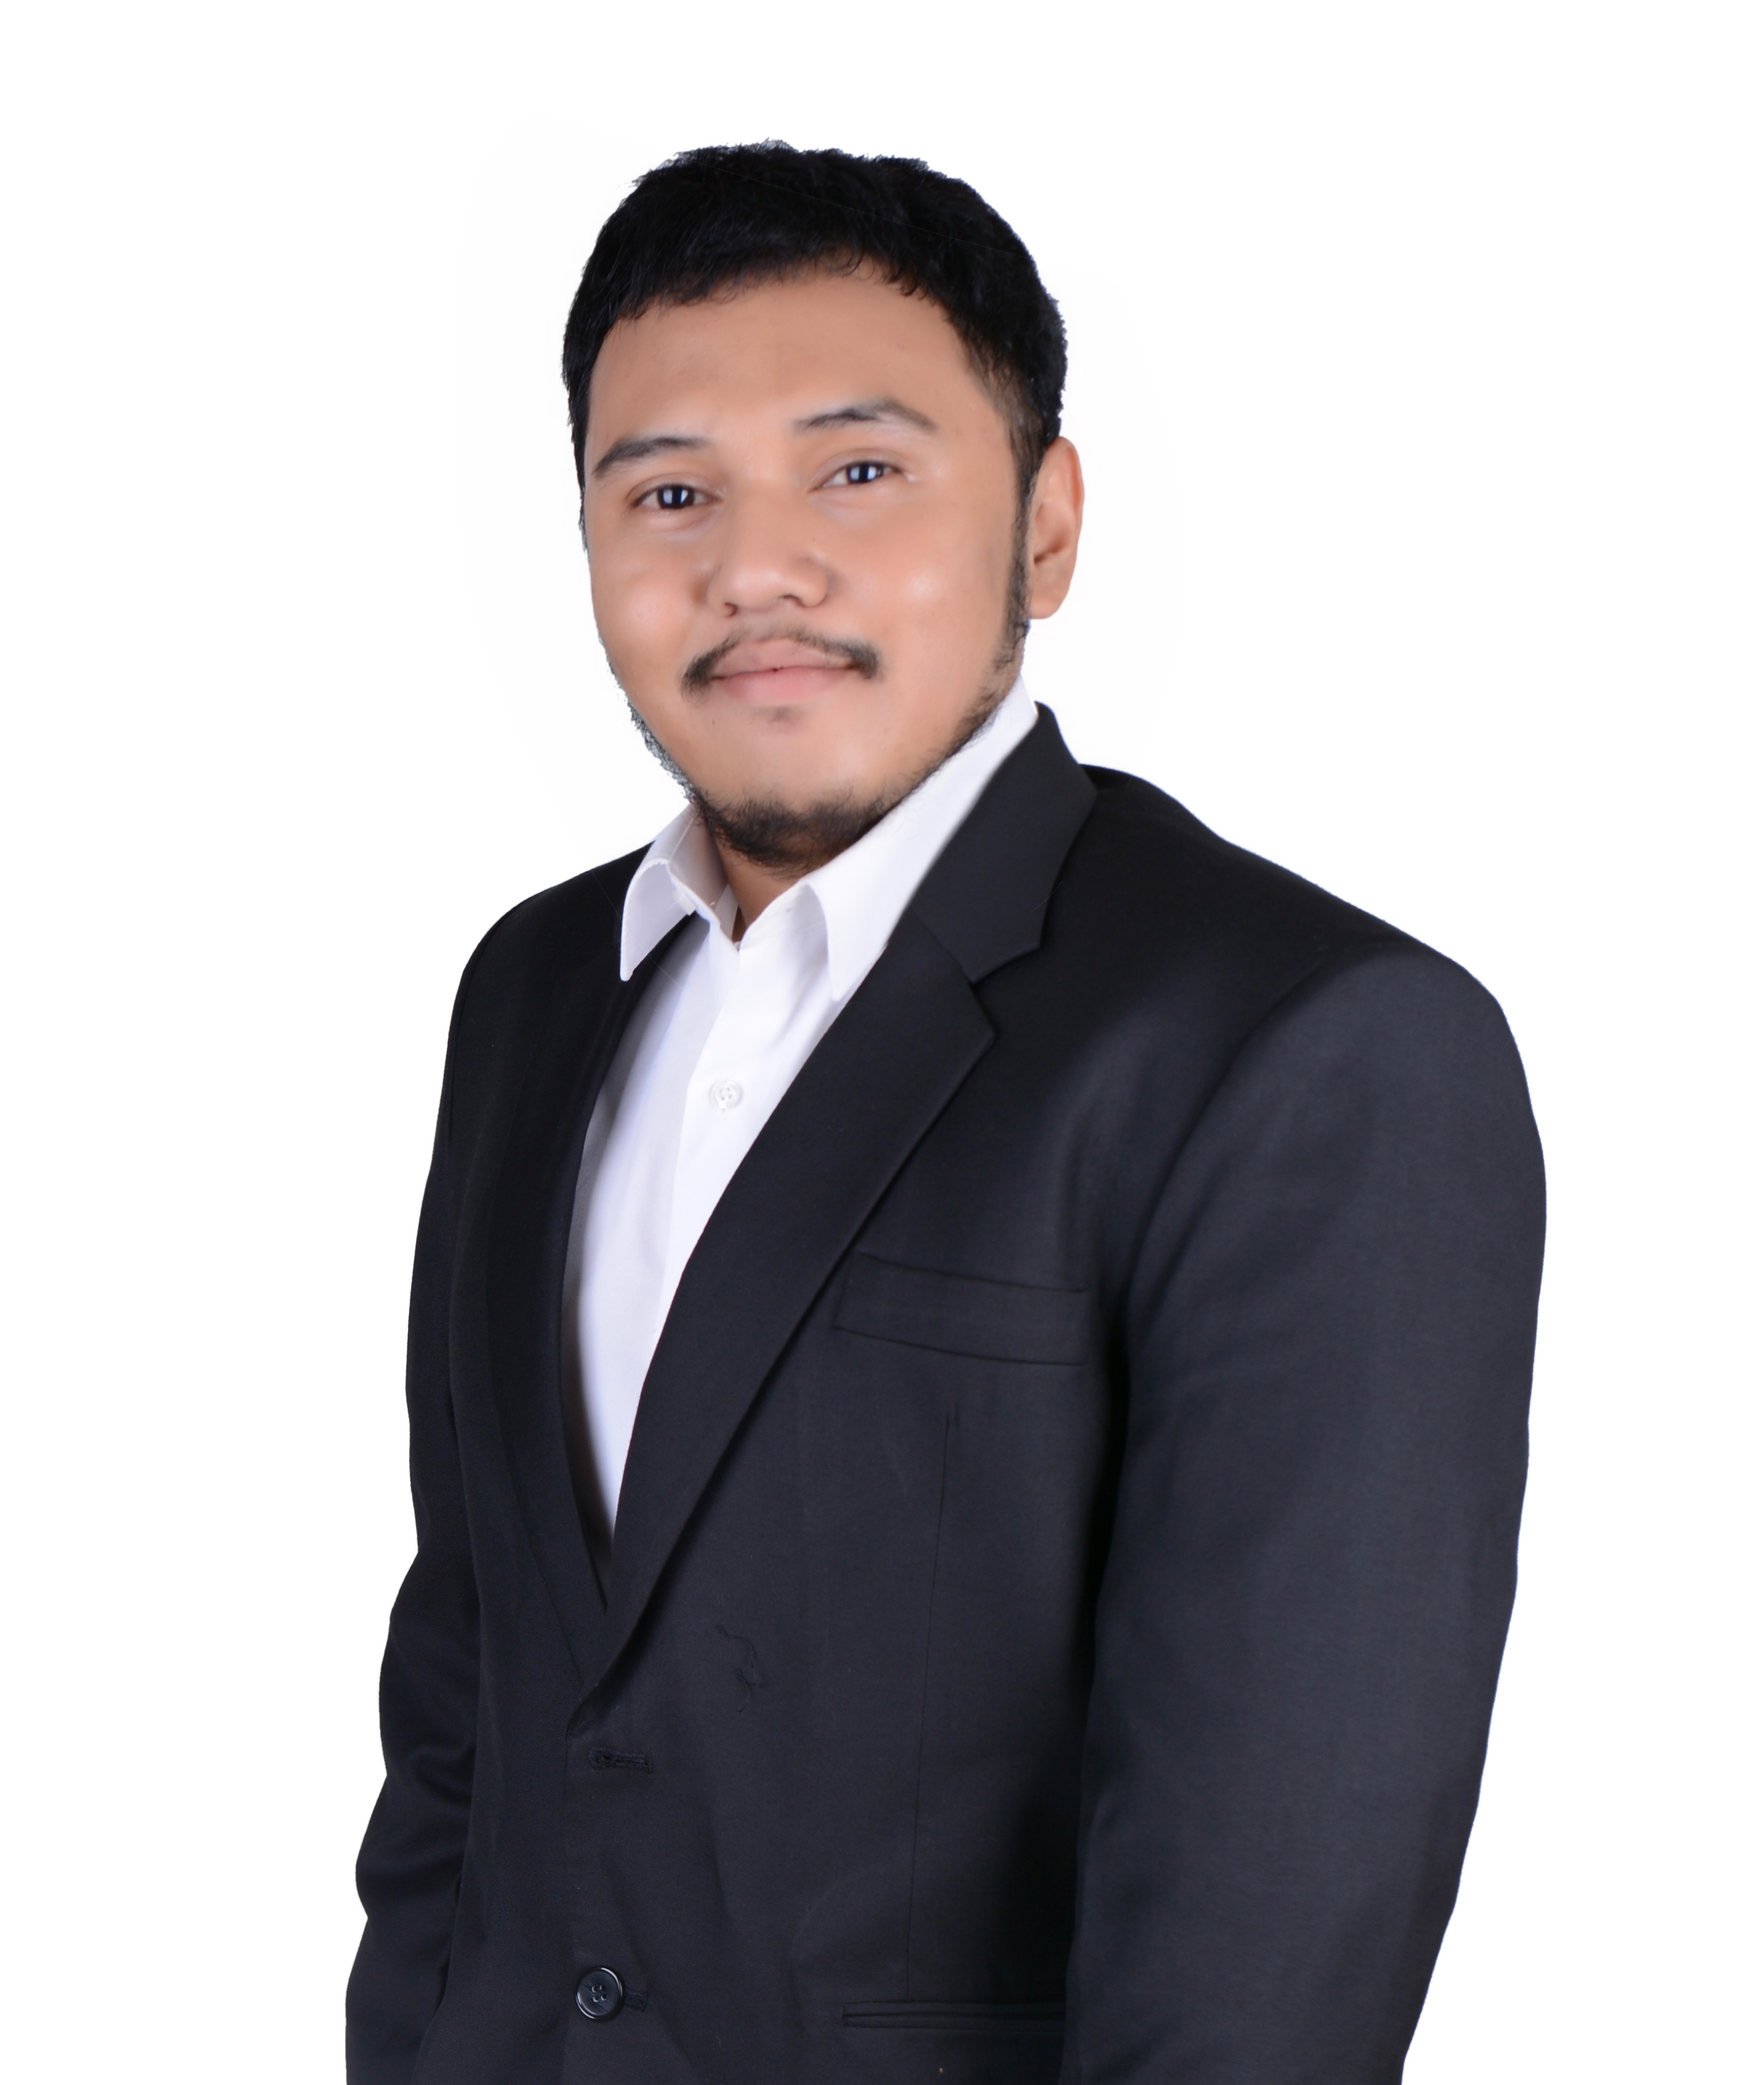
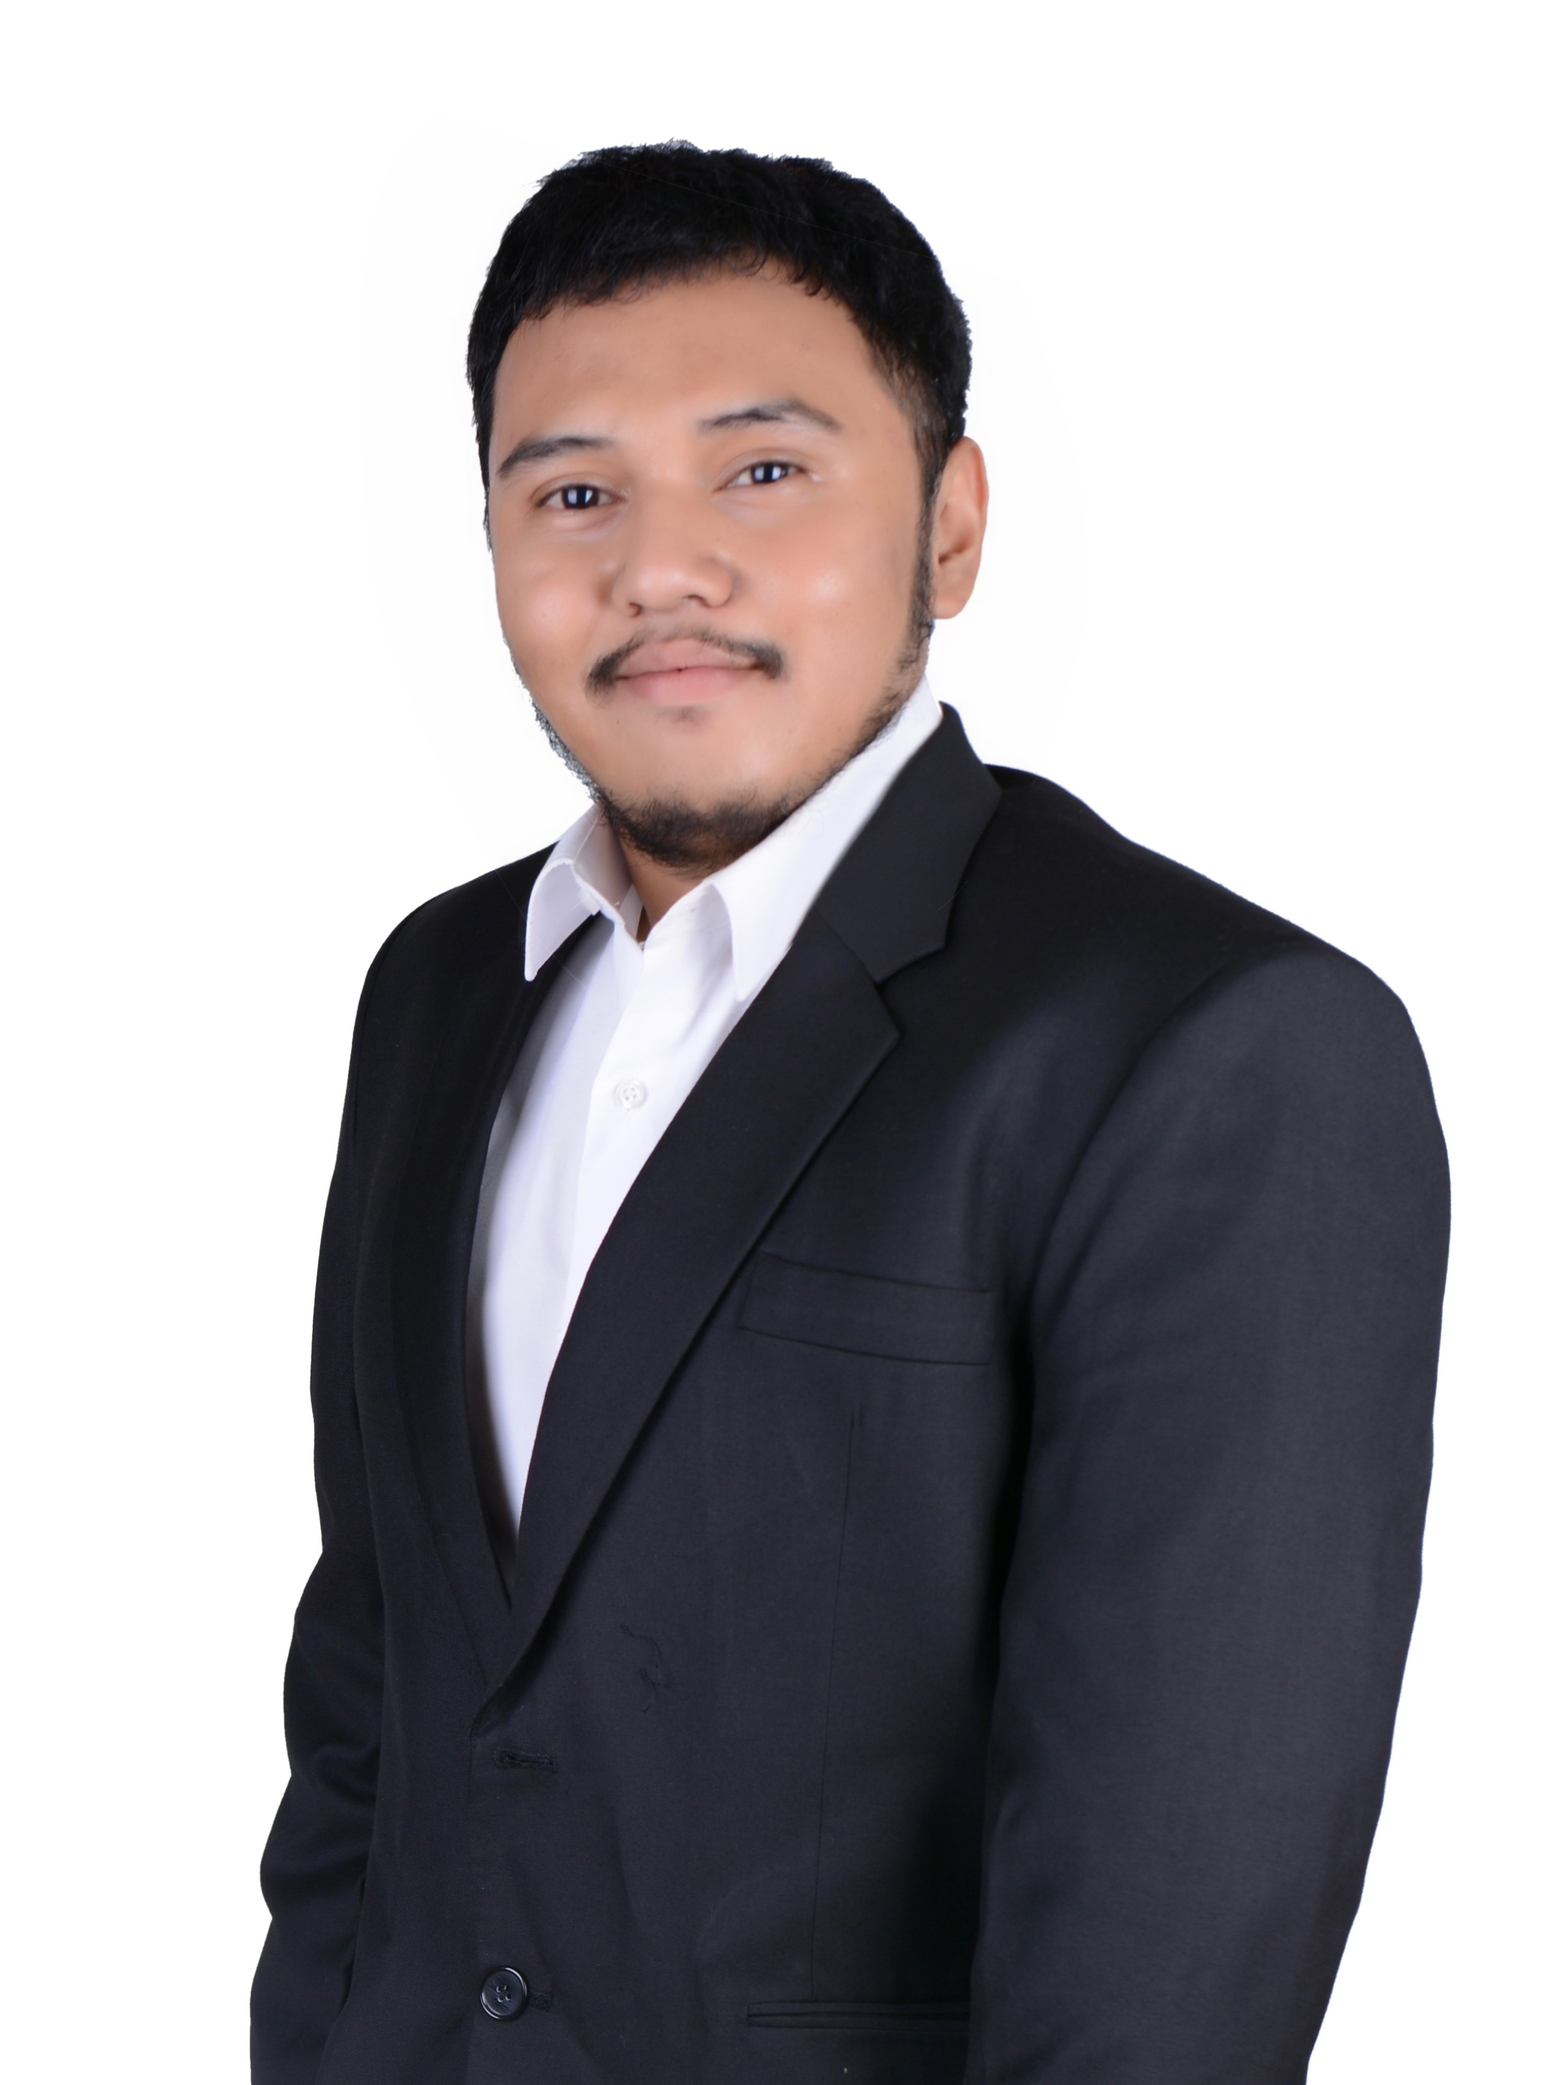
fix : image size

diff --git a/assets/assets.js b/assets/assets.js
@@ -18,11 +18,11 @@ import banner3 from "./landing-page/aboutus.svg";
 import banner4 from "./landing-page/pengurus.svg";
 import maleProfile from "./landing-page/male-profile.jpg";
 import femaleProfile from "./landing-page/female-profile.jpg";
-import redondoImage from "./landing-page/redondo.jpg";
-import redondoPngImage from "./landing-page/redondo.png";
+import redondoImage from "./landing-page/redondo.png";
 import naufalImage from "./landing-page/naufal.jpg";
 import kaisarImage from "./landing-page/kaisar.png";
 import khalifImage from "./landing-page/khalif.jpg";
+import adityaImage from "./landing-page/aditya.jpg";
 import defaultImage from "./landing-page/default-image.jpg";
 
 export default {
@@ -46,9 +46,9 @@ export default {
   maleProfile,
   femaleProfile,
   redondoImage,
-  redondoPngImage,
-  naufalImage,
   kaisarImage,
+  naufalImage,
   khalifImage,
+  adityaImage,
   defaultImage,
 };

diff --git a/components/landing-page/Pengurus/Pengurus.jsx b/components/landing-page/Pengurus/Pengurus.jsx
@@ -6,10 +6,10 @@ const Pengurus = () => {
   
   return (
     <div className='px-16 py-32'>
-      <div className='grid grid-cols-1 md:grid-cols-2 lg:grid-cols-3 gap-y-10 gap-x-8 md:gap-y-18 md:gap-x-16'>
+      <div className='grid grid-cols-1 md:grid-cols-2 lg:grid-cols-3 gap-y-10 gap-x-8 md:gap-y-18 md:gap-x-16 px-24'>
         {administrators.map((data, index) => (
           <div key={index} className={`rounded-xl shadow-lg border-2 overflow-hidden w-full mx-auto`}>
-            <Image src={data.image} alt='Image profile' className='mx-auto aspect-square w-full'/>
+            <Image src={data.image} alt='Image profile' className='mx-auto aspect-[3/4] w-full'/>
             <div className='text-center py-6 space-y-2'>
               <h6 className='text-lg md:text-xl font-semibold'>{data.name}</h6>
               <p className='py-1'>{data.position}</p>

diff --git a/constanst/pengurus.js b/constanst/pengurus.js
@@ -12,12 +12,12 @@ export const administrators = [
     position: "Wakil Ketua Umum",
   },
   {
-    image: assets.redondoPngImage,
+    image: assets.redondoImage,
     name: "Redondo Asprilla",
     position: "Sekertaris Jendral",
   },
   {
-    image: assets.maleProfile,
+    image: assets.adityaImage,
     name: "Aditya Maulana B",
     position: "Bendahara Umum",
   },
